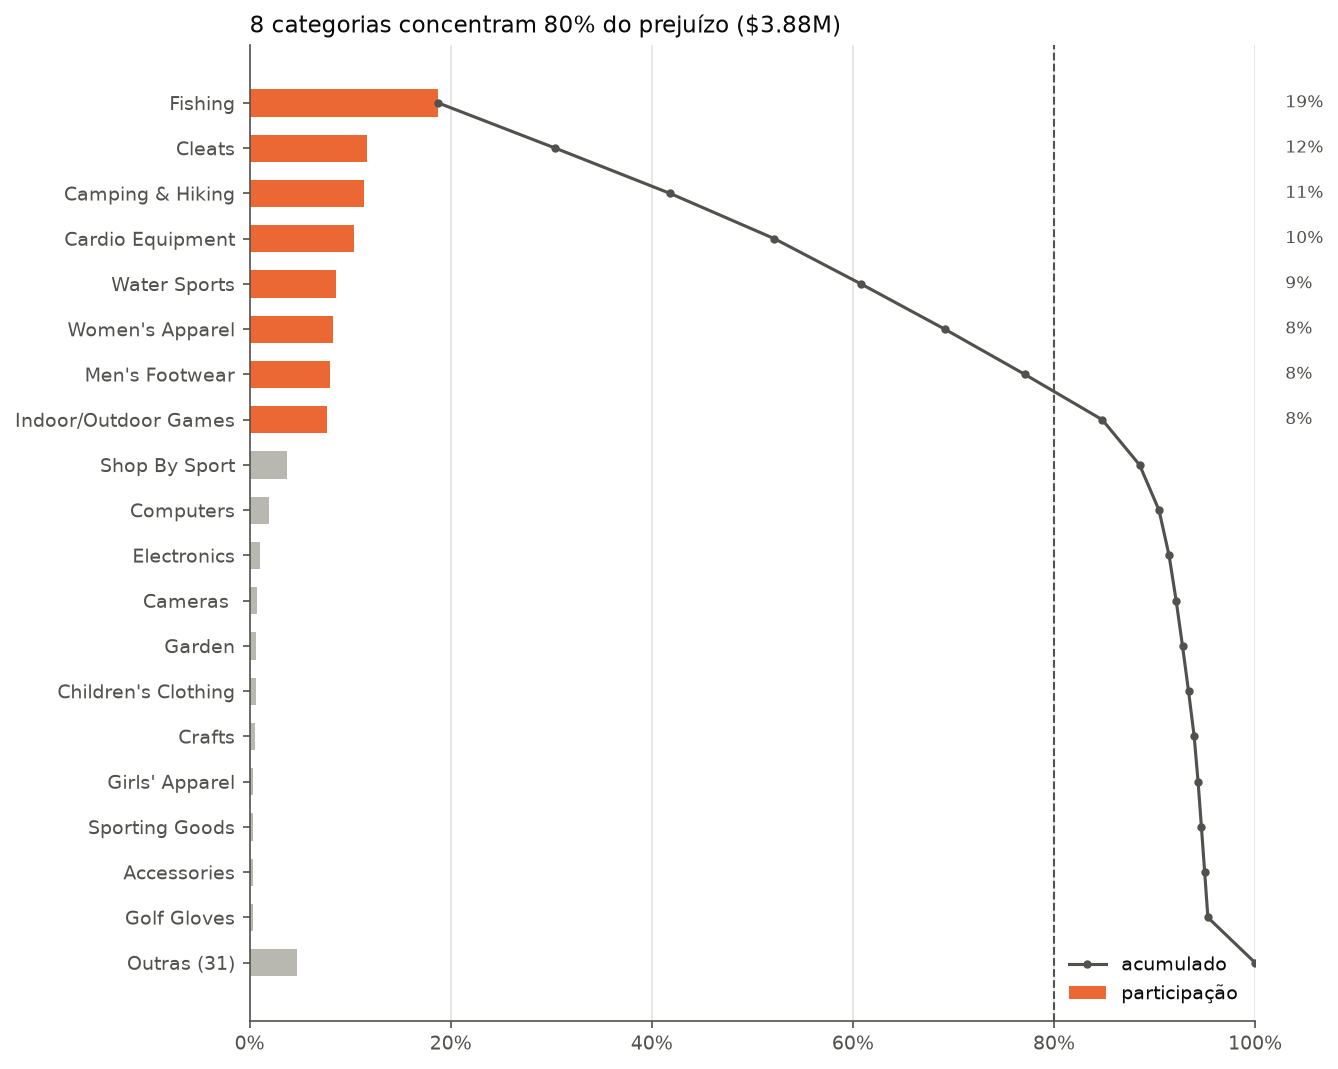
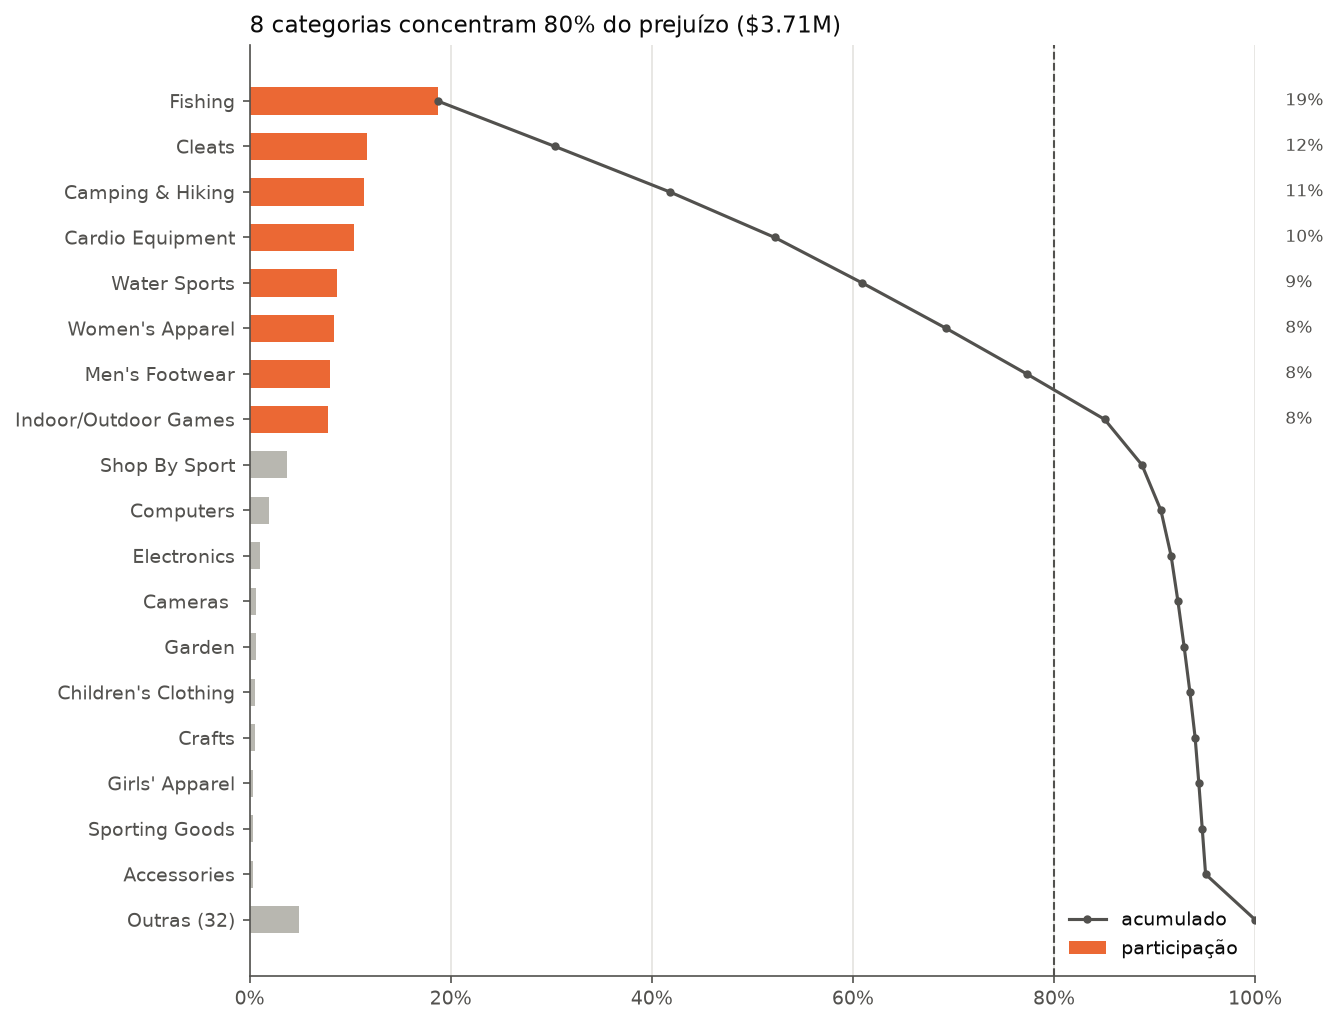
fix: compute late-delivery rate over shipped orders only
Canceled and suspected-fraud orders never ship, so counting them as
on time lowered the rate to 54.8%. Report, figures and Power BI
measures now use the 62,897 shipped orders (57.3%). Financial KPIs
exclude the same orders; money cards show 2 decimals.

diff --git a/src/dataco/figures.py b/src/dataco/figures.py
@@ -73,7 +73,8 @@ def impacto_acoes(orders):
     shipped = orders['Delivery Status'] != 'Shipping canceled'
     mode, hour = orders['Shipping Mode'], orders['order date (DateOrders)'].dt.hour
     sched = orders[SCHED].copy()
-    late = lambda s: ((orders[REAL] > s) & shipped).mean()
+    # rate over shipped orders: canceled/fraud orders never ship, so they cannot be late or on time
+    late = lambda s: (orders[REAL] > s)[shipped].mean()
     steps = {'Hoje': late(sched)}
     sched = sched + ((mode == 'Same Day') & (hour >= 12)).astype(int)
     steps['+ Same Day: +1 dia após 12h'] = late(sched)
@@ -82,7 +83,7 @@ def impacto_acoes(orders):
     steps['+ Second Class: prazo 4 dias'] = late(sched.where(mode != 'Second Class', 4))
     steps['+ Second Class: prazo 6 dias (alternativa)'] = late(sched.where(mode != 'Second Class', 6))
     # shortcut: late() recomputes from real vs scheduled days; matches Late_delivery_risk on today's SLA (asserted below)
-    assert abs(steps['Hoje'] - orders['Late_delivery_risk'].mean()) < 1e-9
+    assert abs(steps['Hoje'] - orders.loc[shipped, 'Late_delivery_risk'].mean()) < 1e-9
 
     s = pd.Series(steps)
     fig, ax = plt.subplots(figsize=(9, 3))
@@ -94,7 +95,8 @@ def impacto_acoes(orders):
     ax.invert_yaxis()
     ax.set_xlim(0, 0.65)
     ax.xaxis.set_major_formatter(mtick.PercentFormatter(1))
-    ax.set_title('Taxa de atraso simulada no histórico, aplicando as ações em sequência', loc='left', fontsize=11)
+    ax.set_title('Atraso registrado se o prazo prometido refletir a operação real (simulação no histórico)',
+                 loc='left', fontsize=11)
     _grid(ax, 'x')
     fig.tight_layout()
     _save(fig, '03_impacto_acoes.png')
@@ -133,12 +135,12 @@ def pedidos_e_atraso_mes(orders):
     fig, (a1, a2) = plt.subplots(2, 1, figsize=(10, 5), sharex=True)
     a1.plot(m.index, m['pedidos'], color=BLUE, lw=2)
     a1.set_ylim(0, m['pedidos'].max() * 1.15)
-    a1.set_title('Pedidos por mês', loc='left', fontsize=10)
+    a1.set_title('Pedidos enviados por mês', loc='left', fontsize=10)
     a2.plot(m.index, m['late_rate'], color=MUTED, lw=2)
     a2.axhline(orders['Late_delivery_risk'].mean(), color=MUTED, lw=1, ls='--')
     a2.set_ylim(0, 1)
     a2.yaxis.set_major_formatter(mtick.PercentFormatter(1))
-    a2.set_title('Taxa de atraso por mês (tracejado = média)', loc='left', fontsize=10)
+    a2.set_title('Taxa de atraso por mês, pedidos enviados (tracejado = média)', loc='left', fontsize=10)
     for ax in (a1, a2):
         _grid(ax)
     fig.suptitle('O volume sobe a partir de out/2017 e a taxa de atraso não muda: o atraso não vem de sobrecarga',
@@ -155,11 +157,12 @@ def main():
     prazos_por_modo(shipped)
     same_day_por_hora(shipped)
     print(impacto_acoes(orders).round(3))
-    b = df['Benefit per order']
-    by_cat = df.assign(lucro=b.clip(lower=0), prejuizo=-b.clip(upper=0)).groupby('Category Name', observed=True)
+    valid = df[~df['Order Status'].isin(['CANCELED', 'SUSPECTED_FRAUD'])]  # never shipped: not real revenue
+    b = valid['Benefit per order']
+    by_cat = valid.assign(lucro=b.clip(lower=0), prejuizo=-b.clip(upper=0)).groupby('Category Name', observed=True)
     pareto(by_cat['lucro'].sum(), 'lucro bruto', BLUE, '04_pareto_lucro.png')
     pareto(by_cat['prejuizo'].sum(), 'prejuízo', ORANGE, '05_pareto_prejuizo.png')
-    pedidos_e_atraso_mes(orders)
+    pedidos_e_atraso_mes(shipped)
 
 
 if __name__ == '__main__':

diff --git a/docs/analise.md b/docs/analise.md
@@ -1,8 +1,10 @@
 # Análise DataCo Supply Chain: atrasos e lucratividade
 
-**Resumo.** 55% dos pedidos atrasam porque os prazos prometidos para First Class, Second Class e Same Day estão abaixo do que a operação entrega. Ajustar esses prazos, sem mudar a operação, reduz a taxa de atraso de 54,8% para 30,3%. A operação fecha com lucro líquido de $3,97M, margem de 12%.
+**Resumo.** 57% dos pedidos enviados atrasam porque os prazos prometidos para First Class, Second Class e Same Day estão abaixo do tempo real da operação. Alinhar a promessa à operação reduz o atraso registrado de 57,3% para 31,6%, mas não deixa nenhuma entrega mais rápida. Sem pedidos cancelados e suspeitos de fraude, a operação fecha com lucro líquido de $3,81M, margem de 12,0%.
 
 **Dados:** CSV original do [Kaggle](https://www.kaggle.com/datasets/shashwatwork/dataco-smart-supply-chain-for-big-data-analysis), com 180.519 itens em 65.752 pedidos, de jan/2015 a jan/2018. O dataset é sintético.
+
+**Base das taxas de atraso:** os 62.897 pedidos enviados. Os 2.855 pedidos `CANCELED` e `SUSPECTED_FRAUD` nunca saem, então não podem atrasar nem chegar no prazo, e ficam fora do cálculo. Contá-los como "não atrasados" baixaria a taxa para 54,8%.
 
 ## 1. O atraso vem do prazo prometido, não da operação
 
@@ -28,10 +30,12 @@ Pedidos Same Day feitos antes das 12h saem no mesmo dia. Os feitos a partir das 
 
 ### O que não explica o atraso
 
-- **Distância e destino:** a taxa de atraso fica entre 54% e 55% em todos os mercados (África, Europa, LATAM, Ásia-Pacífico, EUA/Canadá).
-- **Categoria e produto:** a taxa varia só entre 52% e 60% entre categorias.
+- **Distância e destino:** a taxa de atraso fica entre 56,5% e 57,7% em todos os mercados (África, Europa, LATAM, Ásia-Pacífico, EUA/Canadá).
+- **Categoria e produto:** nas categorias com pelo menos 100 itens, a taxa fica entre 49% e 63%, sem relação com o tipo de produto.
 - **Dia da semana:** nos modos First, Second e Standard Class, a variação é menor que 2 pontos.
 - **Volume:** os pedidos sobem cerca de 20% a partir de out/2017, e a taxa de atraso não muda.
+
+**Mudança no dataset a partir de out/2017.** O número de pedidos sobe, mas cada pedido passa a ter 1 item em vez de 3, de um catálogo diferente (31 produtos, contra 100 antes). O faturamento por pedido cai de $596 (set/2017) para $140 (jan/2018). Por isso a linha de faturamento cai no fim da série enquanto a de pedidos sobe. Não é mês incompleto: os dados vão até 31/jan/2018. É uma quebra do dataset sintético, e comparações de faturamento entre os dois períodos não são válidas.
 
 ![Pedidos e atraso por mês](figures/06_pedidos_atraso_mes.png)
 
@@ -53,16 +57,17 @@ Uma árvore de decisão rasa (`src/dataco/model.py`) usa só o que se sabe no mo
 
 ## 3. Lucro e prejuízo
 
+Os valores abaixo excluem os pedidos `CANCELED` e `SUSPECTED_FRAUD`. Eles nunca são enviados, mas o dataset registra para eles $1,41M de receita e $160K de benefit. O dashboard segue a mesma regra.
+
 | Indicador | Valor |
 | --- | --- |
-| Receita | $33,05M |
-| Lucro bruto (itens com benefit positivo) | $7,85M |
-| Prejuízo (itens com benefit negativo) | −$3,88M |
-| Resultado líquido | $3,97M (12,0%) |
+| Receita | $31,64M |
+| Lucro bruto (itens com benefit positivo) | $7,51M |
+| Prejuízo (itens com benefit negativo) | −$3,71M |
+| Resultado líquido | $3,81M (12,0%) |
 
 - 81% dos itens dão lucro e 19% dão prejuízo. A proporção é a mesma em todas as categorias, produtos, mercados, faixas de desconto e modos de envio.
-- O prejuízo é concentrado: os itens que perdem mais do que o próprio valor de venda são 18,7% dos itens negativos e respondem por 53% do prejuízo.
-- Pedidos `SUSPECTED_FRAUD` e `CANCELED` nunca são enviados, mas registram $1,41M de receita e $160K de benefit. Esses valores inflam o resultado em cerca de 4%.
+- O prejuízo é concentrado: os itens que perdem mais do que o próprio valor de venda são 18,6% dos itens negativos e respondem por 53% do prejuízo.
 
 As mesmas 8 categorias concentram 80% do lucro e 80% do prejuízo, ou seja, o prejuízo acompanha o volume vendido.
 
@@ -74,11 +79,14 @@ As mesmas 8 categorias concentram 80% do lucro e 80% do prejuízo, ou seja, o pr
 
 ![Impacto das ações](figures/03_impacto_acoes.png)
 
-1. **Same Day:** somar 1 dia ao prazo para pedidos feitos a partir das 12h e comunicar esse horário de corte ao cliente. No histórico, o atraso do Same Day cai de 48% para 0%.
-2. **First Class:** mudar o prazo de 1 para 2 dias. O atraso cai de 100% para 0%.
-3. **Second Class:** mudar o prazo de 2 para 4 dias, o que reduz o atraso de 80% para 40%. Um prazo de 6 dias zera o atraso, mas iguala o Second Class ao Standard. A outra opção é tornar a operação do Second Class mais rápida que a do Standard.
-4. **Relatórios de resultado:** excluir os pedidos `CANCELED` e `SUSPECTED_FRAUD` do faturamento e do lucro, porque não foram enviados.
-5. **Monitoramento:** acompanhar no Power BI (`bi/`) a taxa de atraso por modo e por faixa de horário depois da mudança de prazos.
+As ações 1 a 3 mudam a promessa, não a entrega. O prazo passa a refletir a operação real: o cliente recebe no mesmo tempo de hoje, mas a promessa fica honesta. A queda do atraso no gráfico acima mede o alinhamento entre promessa e operação, não uma entrega mais rápida. Para entregar mais rápido de fato, é preciso mudar a operação.
+
+1. **Same Day:** para pedidos feitos a partir das 12h, prometer o dia seguinte e comunicar esse horário de corte ao cliente. Hoje esses pedidos já saem no dia seguinte. No histórico, todos os pedidos Same Day passariam a chegar dentro do prometido.
+2. **First Class:** prometer 2 dias em vez de 1, que é o tempo que a operação sempre leva. Todos os pedidos passariam a chegar dentro do prometido.
+3. **Second Class:** prometer 4 dias em vez de 2. Ainda assim, 40% dos pedidos chegariam depois do prometido. Prometer 6 dias cobre todos, mas iguala o Second Class ao Standard.
+4. **Trade-off a decidir antes das ações 2 e 3:** First e Second Class são modos premium, e o prazo curto é o que justifica o preço. Aumentar o prazo enfraquece esse valor. A alternativa é investir na operação para cumprir os prazos atuais. Isso vale principalmente para o Second Class, que hoje leva o mesmo tempo que o Standard.
+5. **Relatórios de resultado:** manter os pedidos `CANCELED` e `SUSPECTED_FRAUD` fora do faturamento e do lucro, como já fazem este relatório e o dashboard.
+6. **Monitoramento:** acompanhar no Power BI (`bi/`) a taxa de atraso por modo e por faixa de horário depois de qualquer mudança de prazo ou de operação.
 
 ---
 
